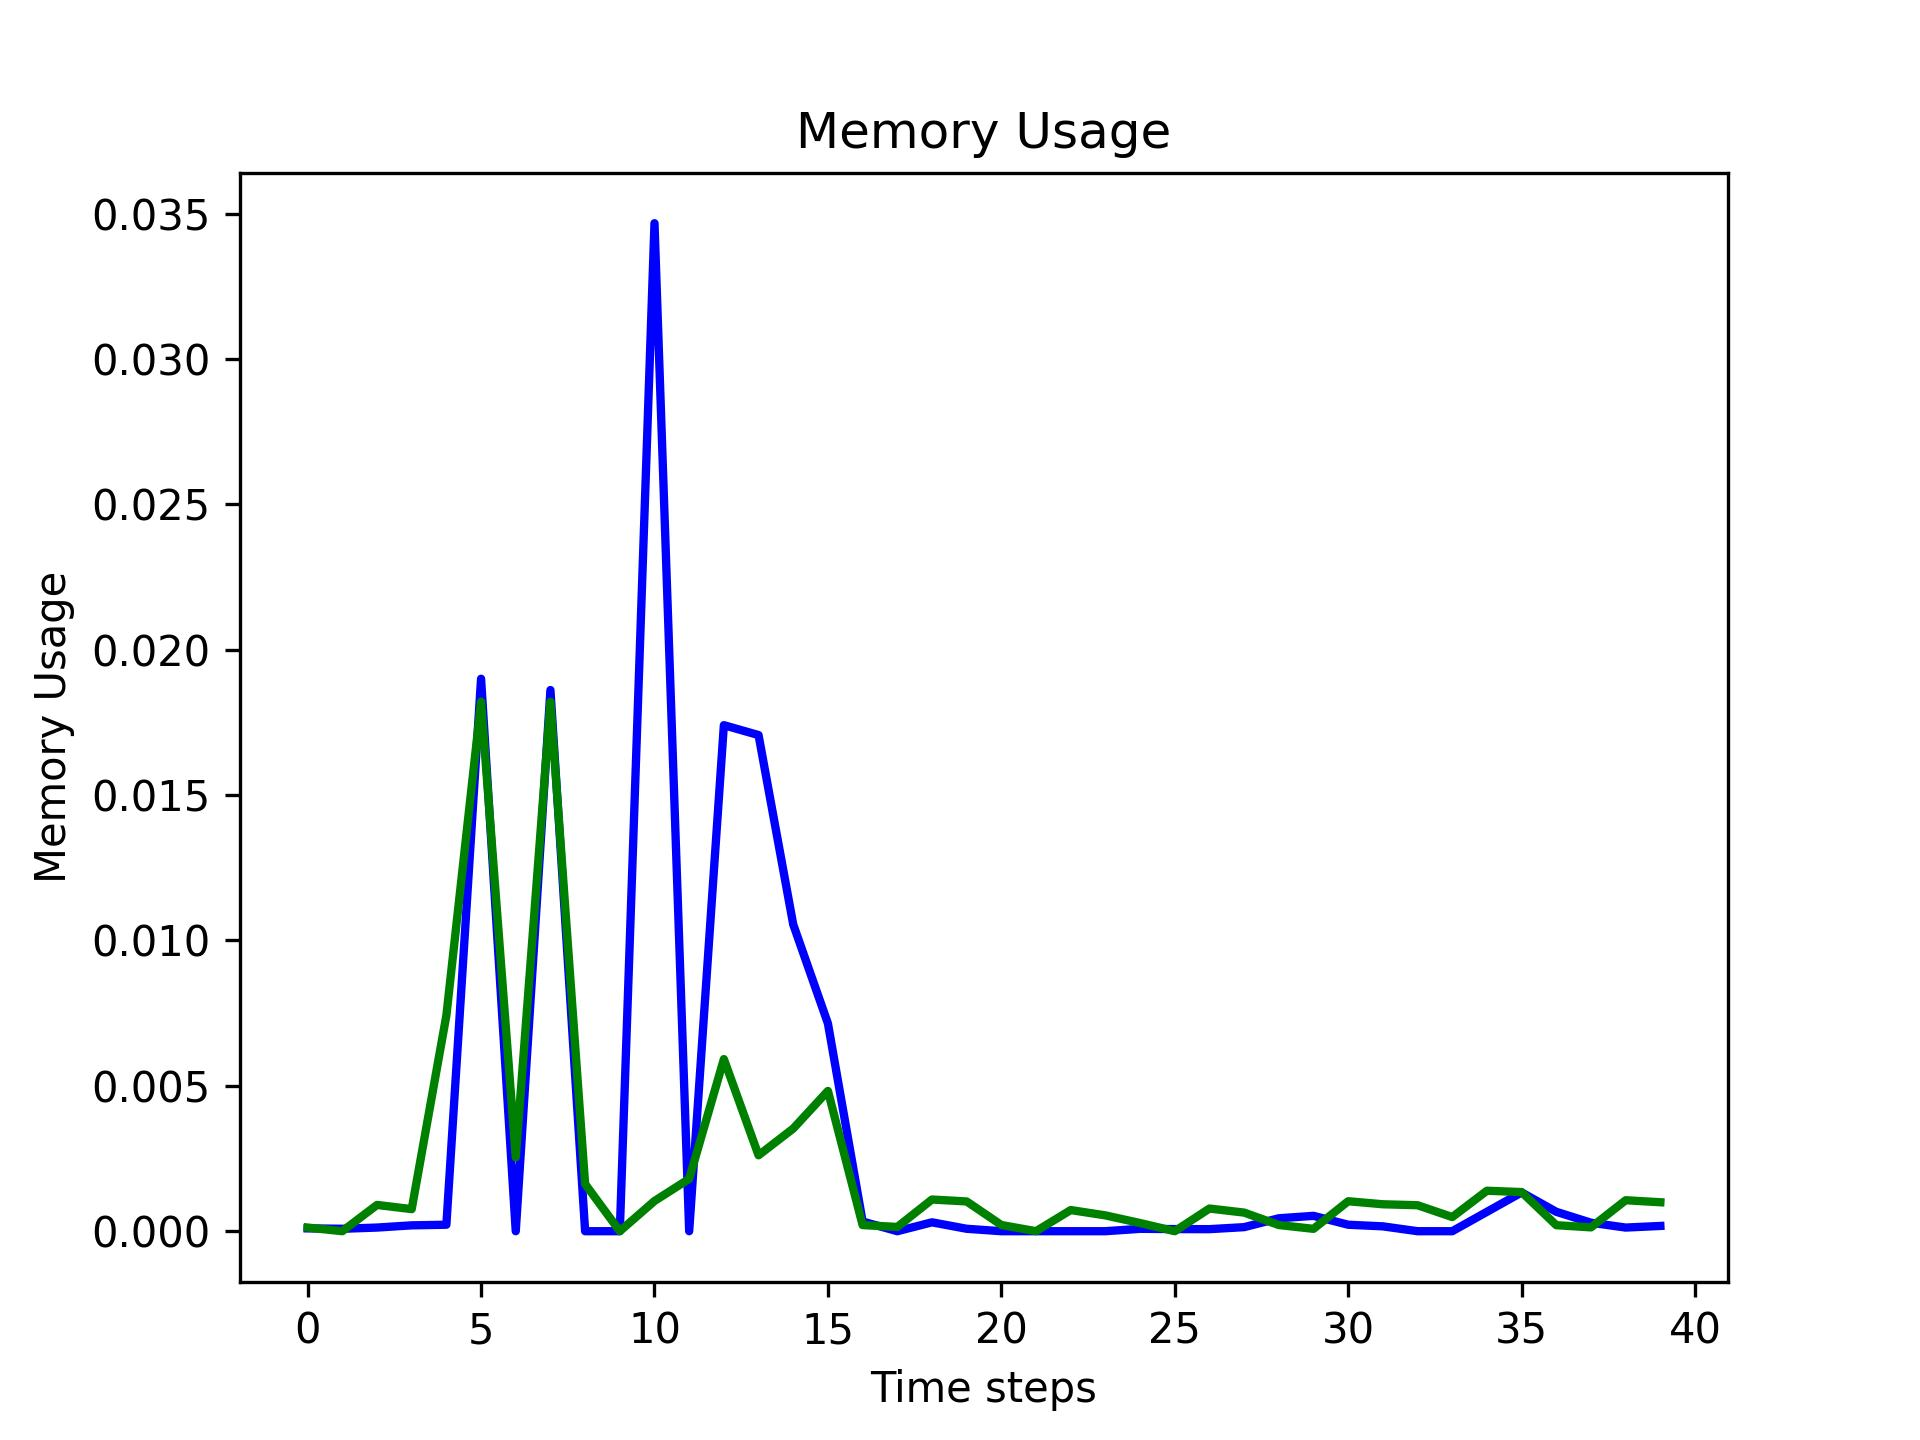
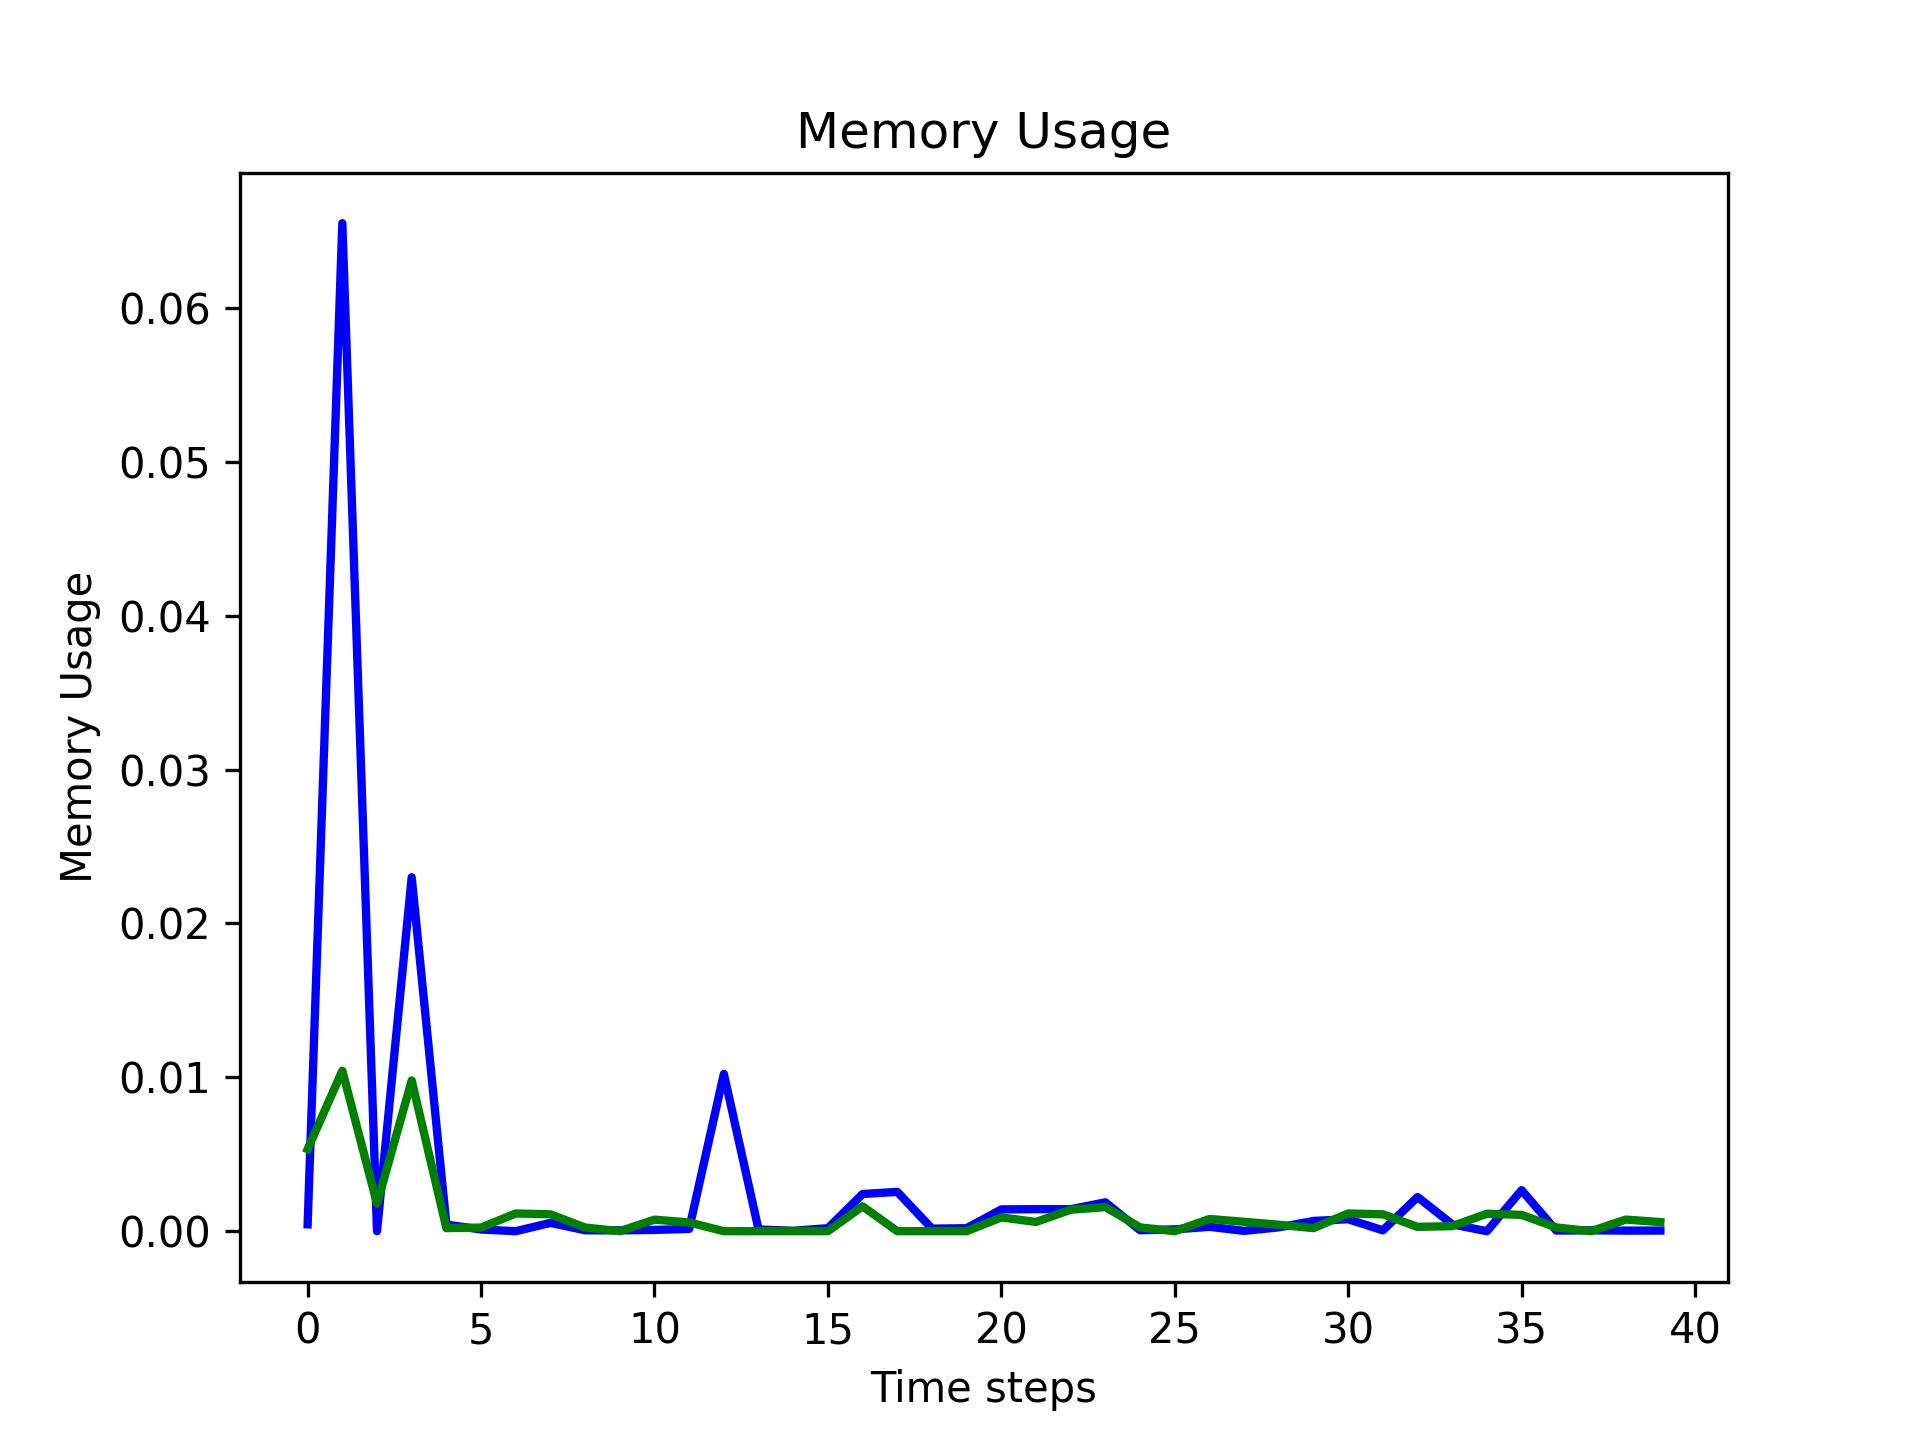
Fixed visualization to align with LSTM model

diff --git a/evaluation.py b/evaluation.py
@@ -15,7 +15,7 @@ import pickle
 from main import data_split, data_scaler, evaluation
 
 
-
+#indexs:  [8967, 10829, 5735, 16448, 11357, 15307, 10854, 282, 14062, 11271] #random indexes for comparison
 
 if __name__ == '__main__':
 
@@ -68,7 +68,8 @@ if __name__ == '__main__':
     net_pred = np.clip(net_pred, 0, None)
 
     ##Get random index for easier visualization
-    indexs = np.random.randint(1, cpu_label.shape[0], size=10).tolist()
+    #indexs = np.random.randint(1, cpu_label.shape[0], size=10).tolist()
+    indexs = [8967, 10829, 5735, 16448, 11357, 15307, 10854, 282, 14062, 11271]
     print("indexs: ", indexs)
 
     cpu_pred_v = cpu_pred[indexs].flatten() # shape = (10,4) => (40,)

diff --git a/test.py b/test.py
@@ -3,10 +3,6 @@ import torch
 import pandas as pd
 
 
-
-model_path = ""
-
-
 def inference(model, input):
     predcition = model(input)
 
